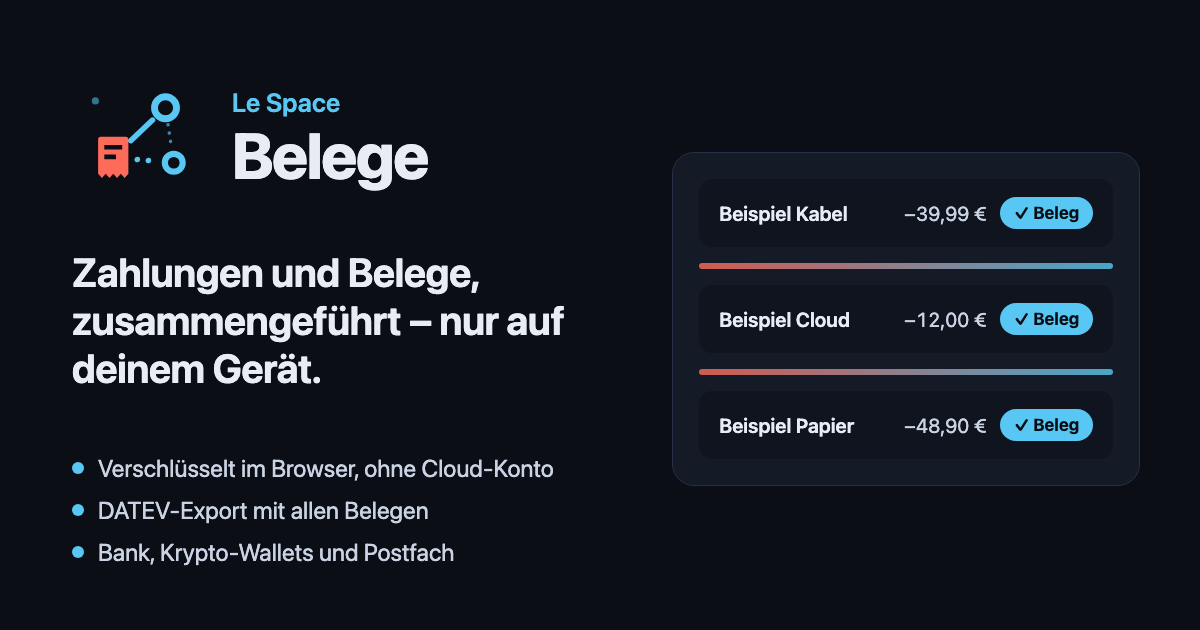
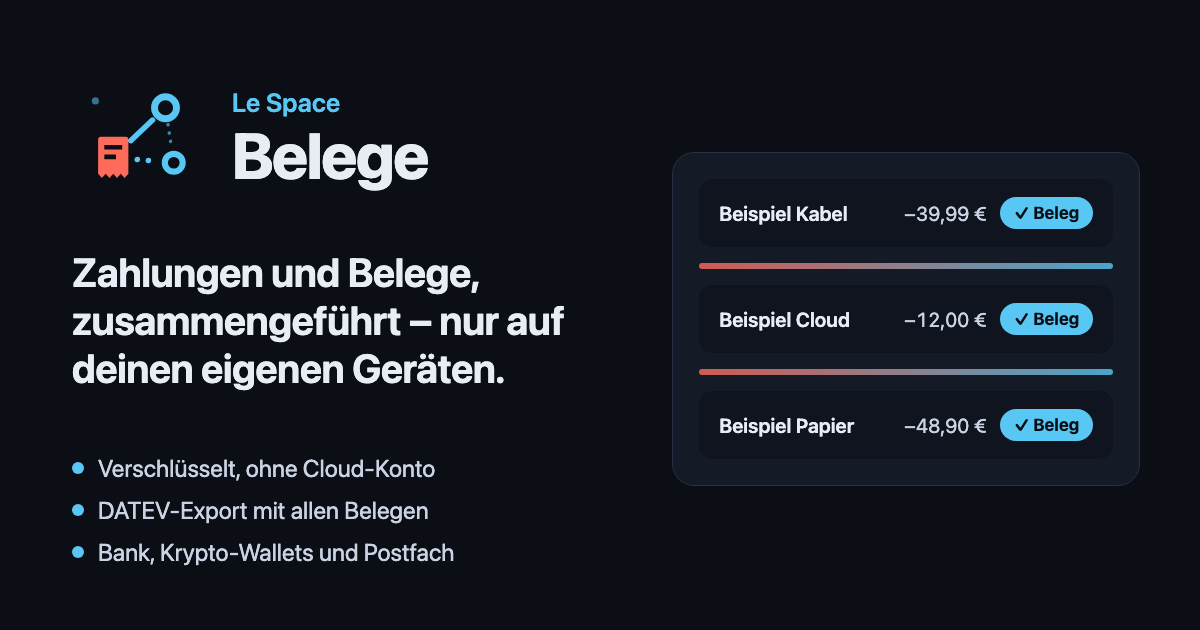
i18n(social): the link preview says "only on your own devices", not "in your browser" (#530)
The app's own link-preview card (title, description, image alt, tagline and
bullet points, in both languages) still promised "lokal im Browser" /
"verschlüsselt im eigenen Browser". The wording rule from #521 says the place
where the books live is "nur auf deinen eigenen Geräten" (EN: "only on your own
devices"), never "the browser", which sounds smaller than it is and, to a
layperson, like "online".

Rewritten in the catalogues, mirrored into the static tags of app.html and
static/en/index.html (the crawlers run no JavaScript), and the two social
images re-rendered with scripts/social-images.mjs. The first bullet on the
card is shortened to "Verschlüsselt, ohne Cloud-Konto" / "Encrypted, no cloud
account", since the tagline right above already names the devices and the
longer line broke mid-word on the German card.

Refs #521.

Changed region(s): [[0.1542, 0.5429, 0.4317, 0.6333], [0.185, 0.7238, 0.4625, 0.754]]

diff --git a/app/static/en/index.html b/app/static/en/index.html
@@ -9,14 +9,14 @@
 		     beside a link. Static, as their crawlers run no JavaScript; the texts are
 		     the catalogue's `social` (a unit test keeps them equal), the image is
 		     made by scripts/social-images.mjs. -->
-		<meta name="description" content="Bank transactions and receipts matched automatically – encrypted in your own browser, no cloud account. With DATEV export, crypto wallets and receipts from your mailbox." />
+		<meta name="description" content="Bank transactions and receipts matched automatically – encrypted only on your own devices, no cloud account. With DATEV export, crypto wallets and receipts from your mailbox." />
 		<link rel="canonical" href="https://belege.le-space.de/en/" />
 		<link rel="alternate" hreflang="de" href="https://belege.le-space.de/" />
 		<link rel="alternate" hreflang="en" href="https://belege.le-space.de/en/" />
 		<meta property="og:type" content="website" />
 		<meta property="og:site_name" content="Le Space Belege" />
-		<meta property="og:title" content="Le Space Belege – payments and receipts, local in your browser" />
-		<meta property="og:description" content="Bank transactions and receipts matched automatically – encrypted in your own browser, no cloud account. With DATEV export, crypto wallets and receipts from your mailbox." />
+		<meta property="og:title" content="Le Space Belege – payments and receipts, only on your own devices" />
+		<meta property="og:description" content="Bank transactions and receipts matched automatically – encrypted only on your own devices, no cloud account. With DATEV export, crypto wallets and receipts from your mailbox." />
 		<meta property="og:url" content="https://belege.le-space.de/en/" />
 		<meta property="og:locale" content="en_GB" />
 		<meta property="og:locale:alternate" content="de_DE" />
@@ -24,12 +24,12 @@
 		<meta property="og:image:type" content="image/png" />
 		<meta property="og:image:width" content="1200" />
 		<meta property="og:image:height" content="630" />
-		<meta property="og:image:alt" content="Le Space Belege: payments and their receipts, matched and encrypted in your own browser" />
+		<meta property="og:image:alt" content="Le Space Belege: payments and their receipts, matched and encrypted only on your own devices" />
 		<meta name="twitter:card" content="summary_large_image" />
-		<meta name="twitter:title" content="Le Space Belege – payments and receipts, local in your browser" />
-		<meta name="twitter:description" content="Bank transactions and receipts matched automatically – encrypted in your own browser, no cloud account. With DATEV export, crypto wallets and receipts from your mailbox." />
+		<meta name="twitter:title" content="Le Space Belege – payments and receipts, only on your own devices" />
+		<meta name="twitter:description" content="Bank transactions and receipts matched automatically – encrypted only on your own devices, no cloud account. With DATEV export, crypto wallets and receipts from your mailbox." />
 		<meta name="twitter:image" content="https://belege.le-space.de/social/belege-en.png" />
-		<meta name="twitter:image:alt" content="Le Space Belege: payments and their receipts, matched and encrypted in your own browser" />
+		<meta name="twitter:image:alt" content="Le Space Belege: payments and their receipts, matched and encrypted only on your own devices" />
 		<!-- The English entry (issue #343): a link to share in English. It opens
 		     the app in English unless this browser already chose a language. -->
 		<script>

diff --git a/app/src/app.html b/app/src/app.html
@@ -29,17 +29,20 @@
 		     made by scripts/social-images.mjs. -->
 		<meta
 			name="description"
-			content="Kontoumsätze und Belege automatisch zusammengeführt – verschlüsselt im eigenen Browser, ohne Cloud-Konto. Mit DATEV-Export, Krypto-Wallets und Belegen aus dem Postfach."
+			content="Kontoumsätze und Belege automatisch zusammengeführt – verschlüsselt nur auf deinen eigenen Geräten, ohne Cloud-Konto. Mit DATEV-Export, Krypto-Wallets und Belegen aus dem Postfach."
 		/>
 		<link rel="canonical" href="https://belege.le-space.de/" />
 		<link rel="alternate" hreflang="de" href="https://belege.le-space.de/" />
 		<link rel="alternate" hreflang="en" href="https://belege.le-space.de/en/" />
 		<meta property="og:type" content="website" />
 		<meta property="og:site_name" content="Le Space Belege" />
-		<meta property="og:title" content="Le Space Belege – Zahlungen und Belege, lokal im Browser" />
+		<meta
+			property="og:title"
+			content="Le Space Belege – Zahlungen und Belege, nur auf deinen eigenen Geräten"
+		/>
 		<meta
 			property="og:description"
-			content="Kontoumsätze und Belege automatisch zusammengeführt – verschlüsselt im eigenen Browser, ohne Cloud-Konto. Mit DATEV-Export, Krypto-Wallets und Belegen aus dem Postfach."
+			content="Kontoumsätze und Belege automatisch zusammengeführt – verschlüsselt nur auf deinen eigenen Geräten, ohne Cloud-Konto. Mit DATEV-Export, Krypto-Wallets und Belegen aus dem Postfach."
 		/>
 		<meta property="og:url" content="https://belege.le-space.de/" />
 		<meta property="og:locale" content="de_DE" />
@@ -50,18 +53,21 @@
 		<meta property="og:image:height" content="630" />
 		<meta
 			property="og:image:alt"
-			content="Le Space Belege: Zahlungen und ihre Belege, zusammengeführt und verschlüsselt im eigenen Browser"
+			content="Le Space Belege: Zahlungen und ihre Belege, zusammengeführt und verschlüsselt nur auf deinen eigenen Geräten"
 		/>
 		<meta name="twitter:card" content="summary_large_image" />
-		<meta name="twitter:title" content="Le Space Belege – Zahlungen und Belege, lokal im Browser" />
+		<meta
+			name="twitter:title"
+			content="Le Space Belege – Zahlungen und Belege, nur auf deinen eigenen Geräten"
+		/>
 		<meta
 			name="twitter:description"
-			content="Kontoumsätze und Belege automatisch zusammengeführt – verschlüsselt im eigenen Browser, ohne Cloud-Konto. Mit DATEV-Export, Krypto-Wallets und Belegen aus dem Postfach."
+			content="Kontoumsätze und Belege automatisch zusammengeführt – verschlüsselt nur auf deinen eigenen Geräten, ohne Cloud-Konto. Mit DATEV-Export, Krypto-Wallets und Belegen aus dem Postfach."
 		/>
 		<meta name="twitter:image" content="https://belege.le-space.de/social/belege-de.png" />
 		<meta
 			name="twitter:image:alt"
-			content="Le Space Belege: Zahlungen und ihre Belege, zusammengeführt und verschlüsselt im eigenen Browser"
+			content="Le Space Belege: Zahlungen und ihre Belege, zusammengeführt und verschlüsselt nur auf deinen eigenen Geräten"
 		/>
 		<title>Le Space Belege</title>
 		%sveltekit.head%

diff --git a/app/src/lib/i18n/de.js b/app/src/lib/i18n/de.js
@@ -1062,14 +1062,14 @@ export default {
 			'Dieser Browser hat keinen Platz mehr für das Backup. Deine Bücher sind unberührt. Schaff Platz auf dem Gerät oder entferne Daten anderer Seiten und versuch es noch einmal.'
 	},
 	social: {
-		title: 'Le Space Belege – Zahlungen und Belege, lokal im Browser',
+		title: 'Le Space Belege – Zahlungen und Belege, nur auf deinen eigenen Geräten',
 		description:
-			'Kontoumsätze und Belege automatisch zusammengeführt – verschlüsselt im eigenen Browser, ohne Cloud-Konto. Mit DATEV-Export, Krypto-Wallets und Belegen aus dem Postfach.',
+			'Kontoumsätze und Belege automatisch zusammengeführt – verschlüsselt nur auf deinen eigenen Geräten, ohne Cloud-Konto. Mit DATEV-Export, Krypto-Wallets und Belegen aus dem Postfach.',
 		imageAlt:
-			'Le Space Belege: Zahlungen und ihre Belege, zusammengeführt und verschlüsselt im eigenen Browser',
-		tagline: 'Zahlungen und Belege, zusammengeführt – nur auf deinem Gerät.',
+			'Le Space Belege: Zahlungen und ihre Belege, zusammengeführt und verschlüsselt nur auf deinen eigenen Geräten',
+		tagline: 'Zahlungen und Belege, zusammengeführt – nur auf deinen eigenen Geräten.',
 		points: [
-			'Verschlüsselt im Browser, ohne Cloud-Konto',
+			'Verschlüsselt, ohne Cloud-Konto',
 			'DATEV-Export mit allen Belegen',
 			'Bank, Krypto-Wallets und Postfach'
 		],

diff --git a/app/src/lib/i18n/en.js b/app/src/lib/i18n/en.js
@@ -1037,14 +1037,14 @@ export default {
 			'This browser has no room left for the backup. Your books are untouched. Free some space on the device, or remove other sites’ data, and try again.'
 	},
 	social: {
-		title: 'Le Space Belege – payments and receipts, local in your browser',
+		title: 'Le Space Belege – payments and receipts, only on your own devices',
 		description:
-			'Bank transactions and receipts matched automatically – encrypted in your own browser, no cloud account. With DATEV export, crypto wallets and receipts from your mailbox.',
+			'Bank transactions and receipts matched automatically – encrypted only on your own devices, no cloud account. With DATEV export, crypto wallets and receipts from your mailbox.',
 		imageAlt:
-			'Le Space Belege: payments and their receipts, matched and encrypted in your own browser',
-		tagline: 'Payments and receipts, matched – on your device only.',
+			'Le Space Belege: payments and their receipts, matched and encrypted only on your own devices',
+		tagline: 'Payments and receipts, matched – only on your own devices.',
 		points: [
-			'Encrypted in your browser, no cloud account',
+			'Encrypted, no cloud account',
 			'DATEV export with every receipt',
 			'Bank, crypto wallets and mailbox'
 		],
